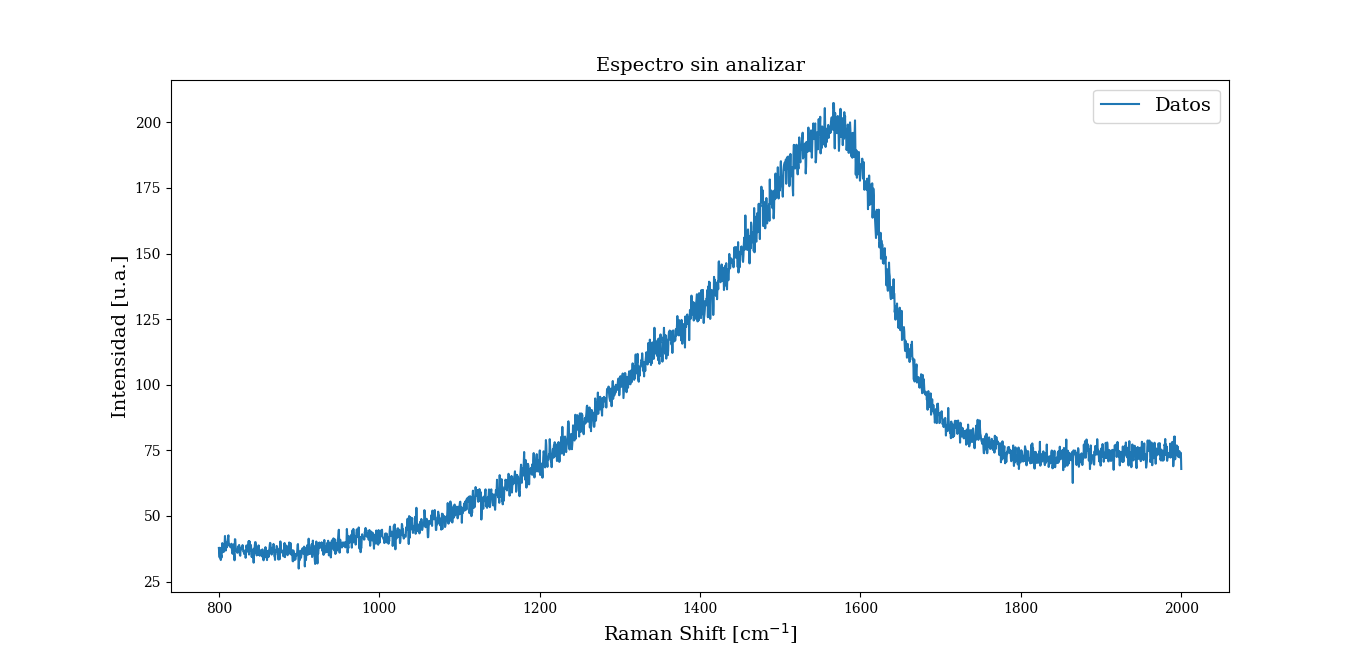
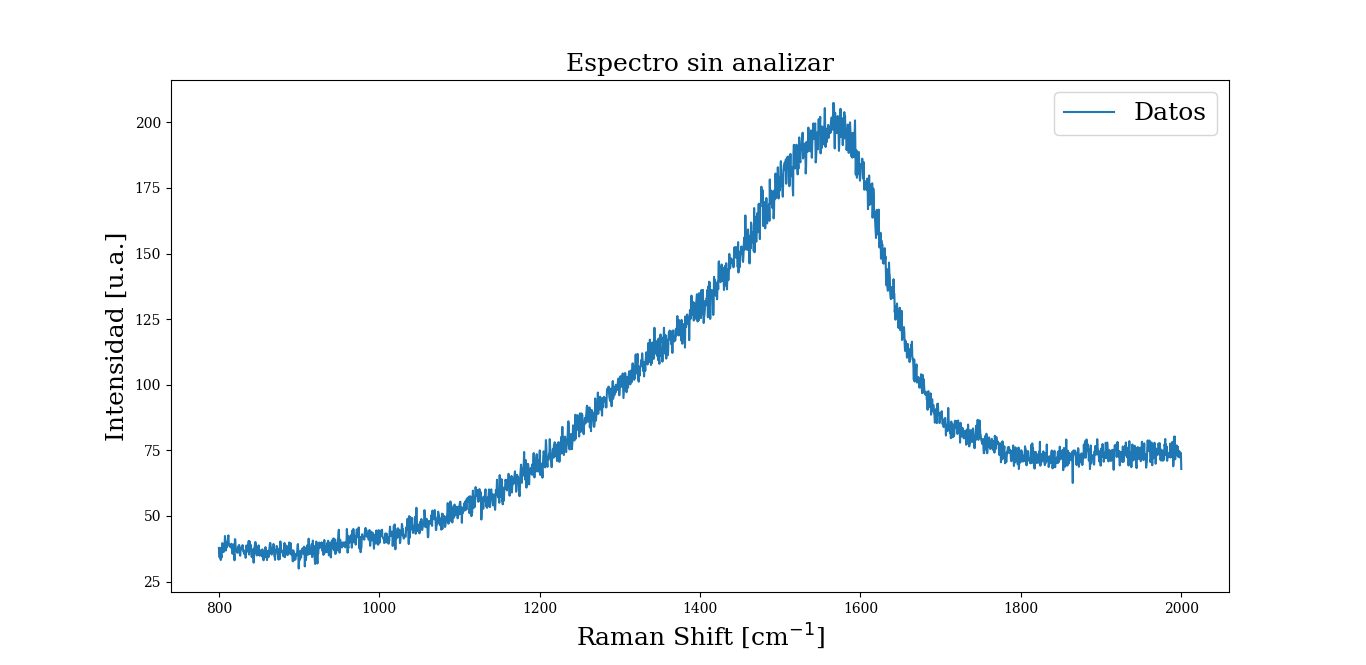
.

diff --git a/figura.py b/figura.py
@@ -8,8 +8,8 @@ ydata = datos[:,1]
 
 fig = plt.figure(figsize = (4, 2))
 plt.plot(xdata, ydata)
-plt.legend(['Datos'], fontsize = 14)
-plt.xlabel('Raman Shift [cm$^{-1}$]', fontsize = 14, ha = 'center')
-plt.ylabel('Intensidad [u.a.]', fontsize = 14, ha = 'center')
-plt.title('Espectro sin analizar', fontsize = 14, ha = 'center')
+plt.legend(['Datos'], fontsize = 18)
+plt.xlabel('Raman Shift [cm$^{-1}$]', fontsize = 18, ha = 'center')
+plt.ylabel('Intensidad [u.a.]', fontsize = 18, ha = 'center')
+plt.title('Espectro sin analizar', fontsize = 18, ha = 'center')
 plt.show()
